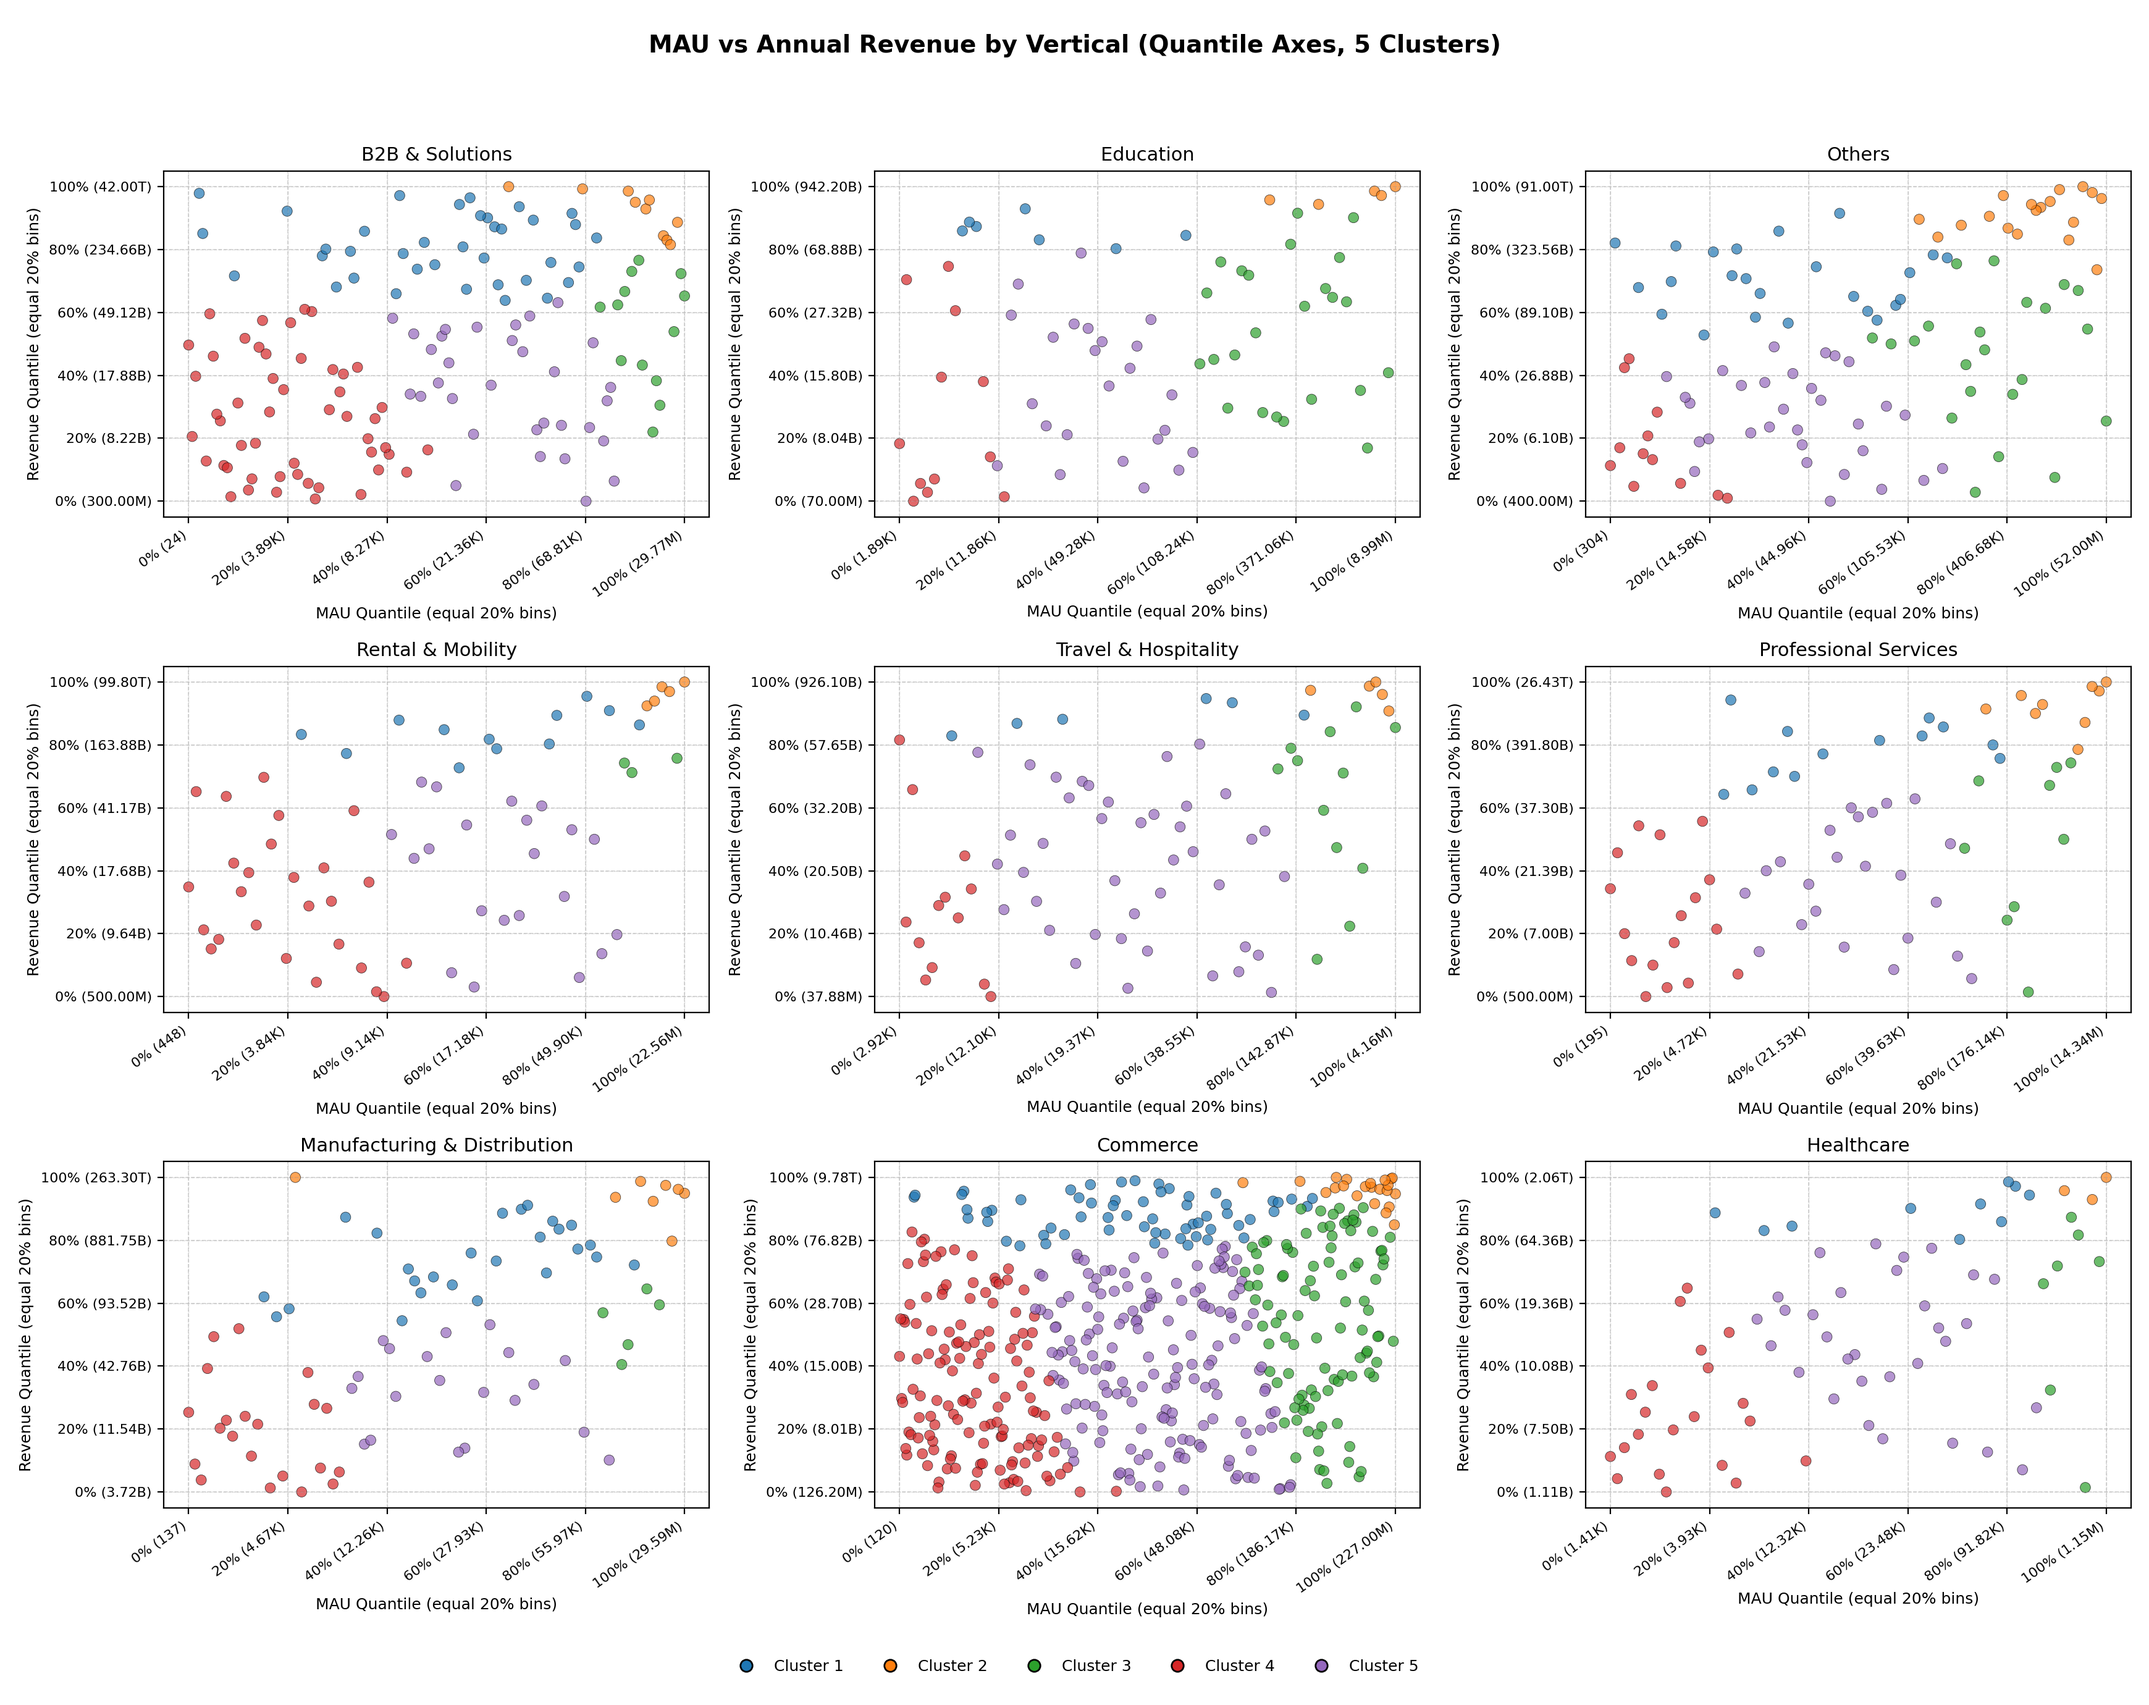
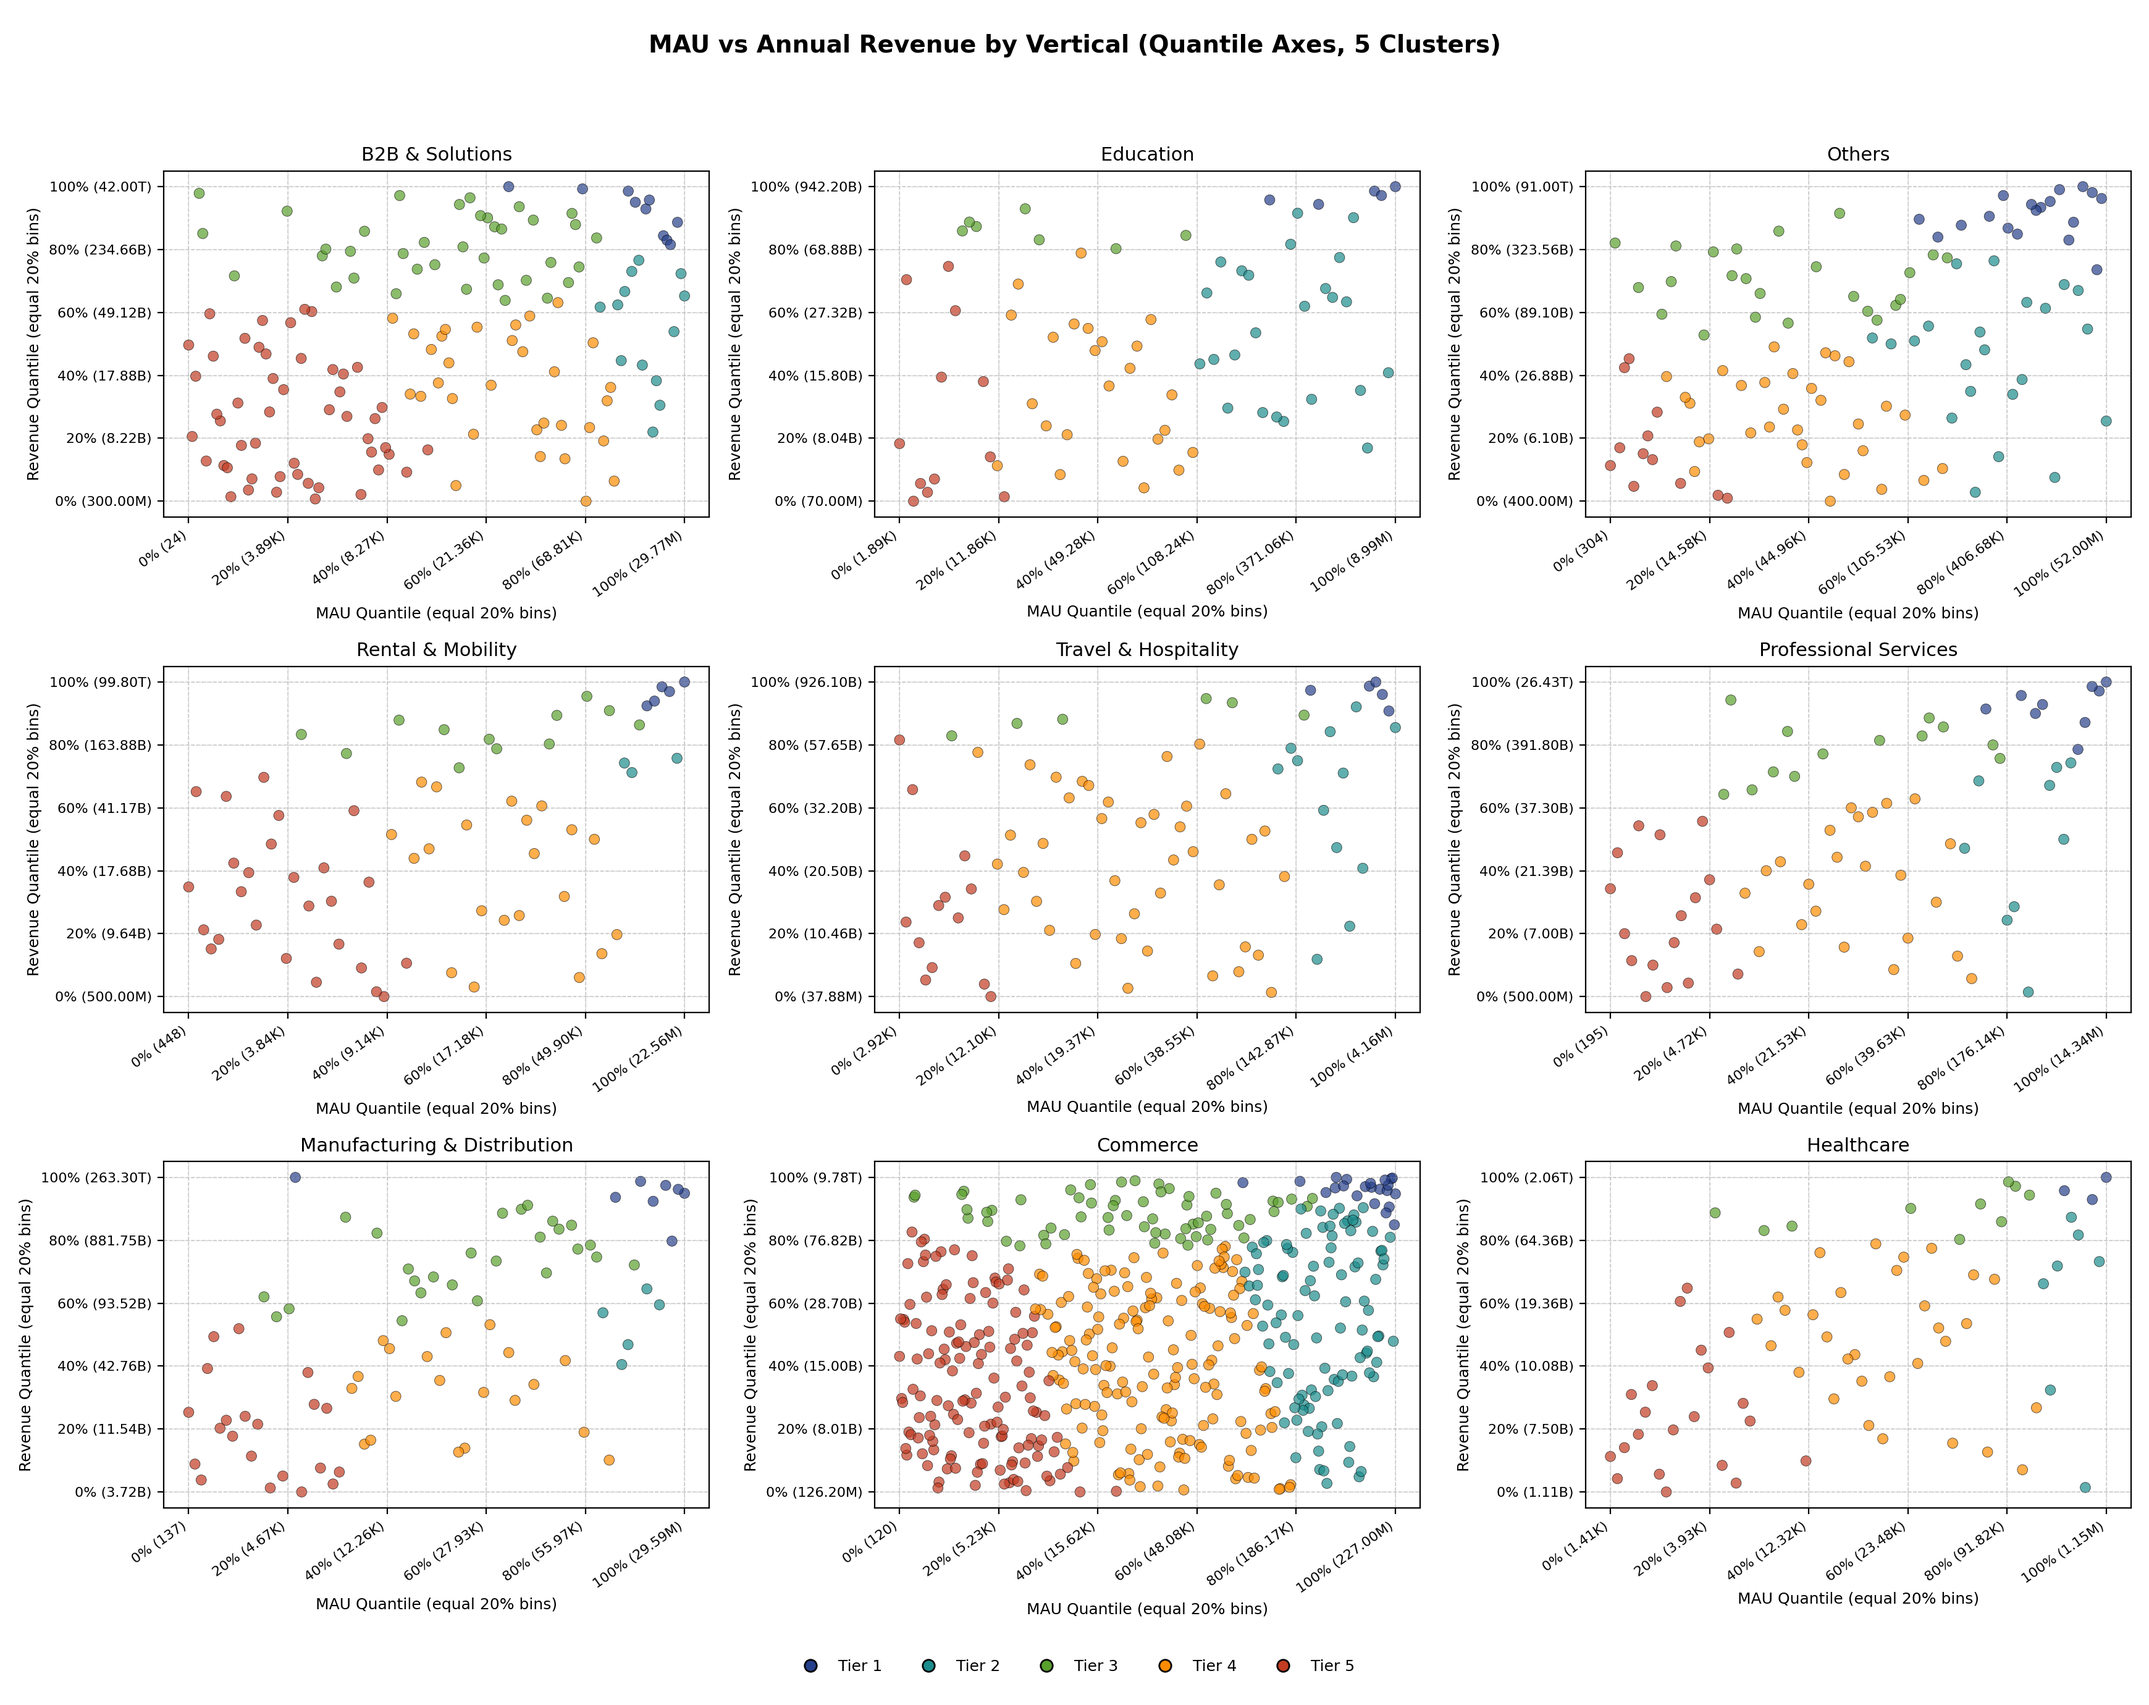
Refactor: Assign tiers to clusters and update plotting

diff --git a/scripts/plot_vertical_quantile_scatter.py b/scripts/plot_vertical_quantile_scatter.py
@@ -31,6 +31,13 @@ CLUSTER_PALETTE = [
     "#bcbd22",
     "#17becf",
 ]
+TIER_COLORS = [
+    "#27408b",  # Tier 1 - deep blue
+    "#1c8c8c",
+    "#5aa02c",
+    "#ff8c00",
+    "#c23b22",  # Tier 5 - warm red
+]
 
 
 def _format_value(value: float) -> str:
@@ -109,9 +116,22 @@ def assign_clusters(df: pd.DataFrame, n_clusters: int = 5) -> pd.DataFrame:
     kmeans = KMeans(n_clusters=n_clusters, n_init=20, random_state=42)
     clean_df["Cluster"] = kmeans.fit_predict(scaled)
 
+    center_scores = kmeans.cluster_centers_.sum(axis=1)
+    tier_order = np.argsort(-center_scores)
+    cluster_to_tier_rank = {cluster_idx: rank for rank, cluster_idx in enumerate(tier_order)}
+    cluster_to_tier_name = {cluster_idx: f"Tier {rank + 1}" for rank, cluster_idx in enumerate(tier_order)}
+    cluster_to_color = {
+        cluster_idx: TIER_COLORS[rank % len(TIER_COLORS)]
+        for cluster_idx, rank in cluster_to_tier_rank.items()
+    }
+
+    clean_df["TierRank"] = clean_df["Cluster"].map(cluster_to_tier_rank)
+    clean_df["Tier"] = clean_df["Cluster"].map(cluster_to_tier_name)
+    clean_df["ClusterColor"] = clean_df["Cluster"].map(cluster_to_color)
+
     merged = df.copy()
     merged = merged.merge(
-        clean_df[["Account", "Cluster"]],
+        clean_df[["Account", "Cluster", "TierRank", "Tier", "ClusterColor"]],
         on="Account",
         how="left",
         suffixes=("", "_cluster"),
@@ -119,6 +139,7 @@ def assign_clusters(df: pd.DataFrame, n_clusters: int = 5) -> pd.DataFrame:
     if merged["Cluster"].isna().any():
         raise ValueError("Cluster assignment missing for some rows.")
     merged["Cluster"] = merged["Cluster"].astype(int)
+    merged["TierRank"] = merged["TierRank"].astype(int)
     return merged
 
 
@@ -151,8 +172,9 @@ def plot_scatter(df: pd.DataFrame, output_path: Path) -> None:
     cols = 3
     rows = math.ceil(len(verticals) / cols)
     fig, axes = plt.subplots(rows, cols, figsize=(cols * 5.8, rows * 4.6), squeeze=False)
-    clusters = sorted(df["Cluster"].unique())
-    cluster_colors = {cluster: CLUSTER_PALETTE[cluster % len(CLUSTER_PALETTE)] for cluster in clusters}
+    tier_ranks = sorted(df["TierRank"].unique())
+    tier_colors = {rank: TIER_COLORS[rank % len(TIER_COLORS)] for rank in tier_ranks}
+    tier_names = {rank: f"Tier {rank + 1}" for rank in tier_ranks}
 
     for idx, vertical in enumerate(verticals):
         ax = axes[idx // cols][idx % cols]
@@ -167,7 +189,7 @@ def plot_scatter(df: pd.DataFrame, output_path: Path) -> None:
             alpha=0.7,
             edgecolors="black",
             linewidths=0.3,
-            c=subset["Cluster"].map(cluster_colors).to_numpy(),
+            c=subset["TierRank"].map(tier_colors).to_numpy(),
         )
 
         if xticks.size:
@@ -199,12 +221,12 @@ def plot_scatter(df: pd.DataFrame, output_path: Path) -> None:
             [0],
             marker="o",
             color="white",
-            label=f"Cluster {cluster + 1}",
-            markerfacecolor=color,
+            label=tier_names[rank],
+            markerfacecolor=tier_colors[rank],
             markeredgecolor="black",
             markersize=7,
         )
-        for cluster, color in cluster_colors.items()
+        for rank in tier_ranks
     ]
     fig.legend(
         handles=legend_handles,
